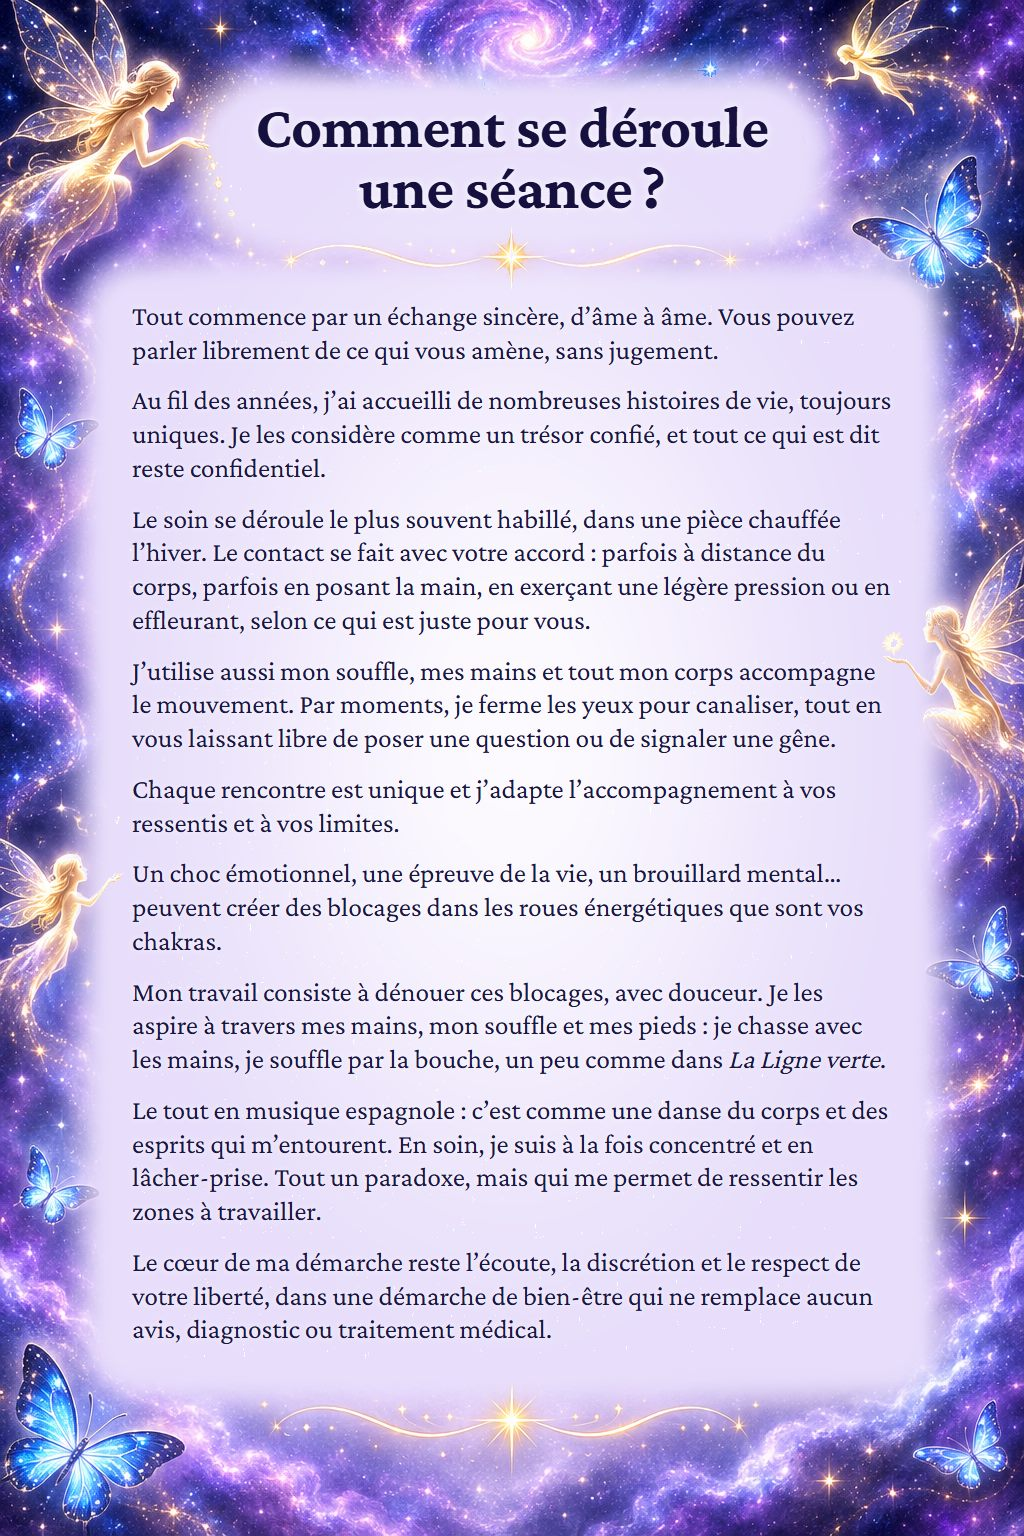
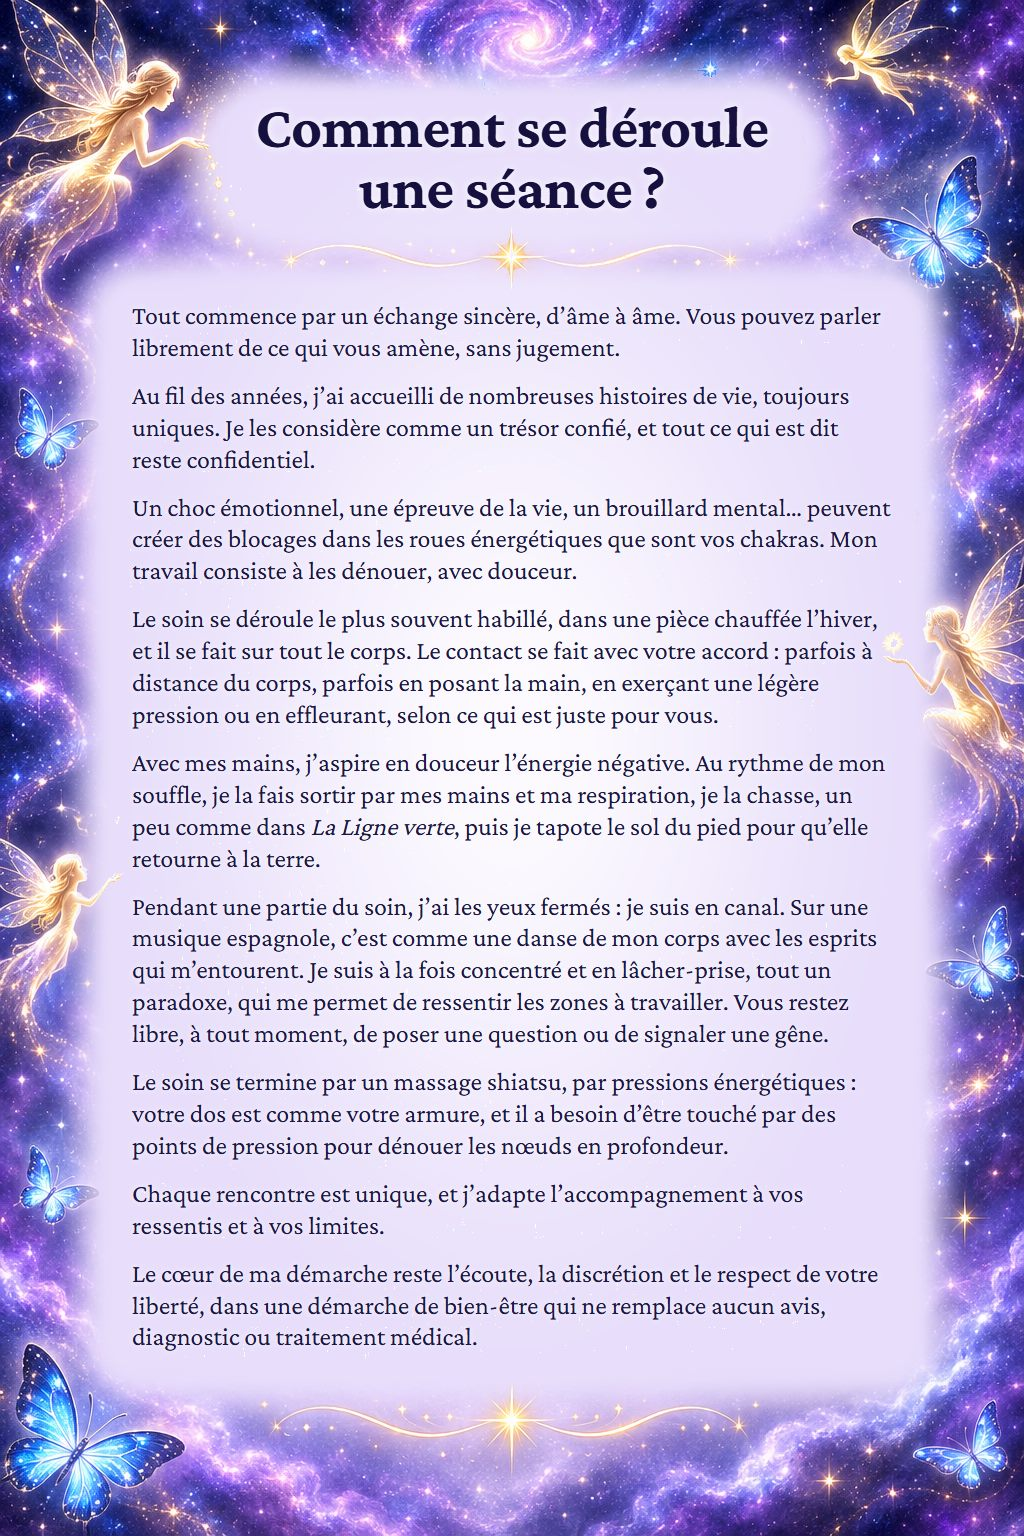
« Comment se déroule une séance ? » : protocole réécrit (tout le corps, mains et souffle, canal, massage shiatsu), versions ordinateur et téléphone

Changed region(s): [[0.125, 0.1875, 0.875, 0.875]]

diff --git a/index.html b/index.html
@@ -611,12 +611,12 @@
     </section>
     <!-- Image « Comment se déroule une séance ? » (cliquer dessus l'ouvre en grand) -->
     <figure class="seance-image apparition" data-anim="zoom" id="deroulement-seance">
-      <a href="images/deroulement-seance.jpg?v=2" target="_blank" rel="noopener">
+      <a href="images/deroulement-seance.jpg?v=3" target="_blank" rel="noopener">
         <picture>
           <!-- Téléphone : version allongée, avec le texte écrit plus gros -->
-          <source media="(max-width: 600px)" type="image/webp" srcset="images/deroulement-seance-mobile.webp?v=1" width="1024" height="2976">
-        <img src="images/deroulement-seance.jpg?v=2" width="1024" height="1536" loading="lazy"
-             alt="Comment se déroule une séance ? Tout commence par un échange sincère, d'âme à âme. Vous pouvez parler librement de ce qui vous amène, sans jugement. Au fil des années, j'ai accueilli de nombreuses histoires de vie, toujours uniques. Je les considère comme un trésor confié, et tout ce qui est dit reste confidentiel. Le soin se déroule le plus souvent habillé, dans une pièce chauffée l'hiver. Le contact se fait avec votre accord : parfois à distance du corps, parfois en posant la main, en exerçant une légère pression ou en effleurant, selon ce qui est juste pour vous. J'utilise aussi mon souffle, mes mains et tout mon corps accompagne le mouvement. Par moments, je ferme les yeux pour canaliser, tout en vous laissant libre de poser une question ou de signaler une gêne. Chaque rencontre est unique et j'adapte l'accompagnement à vos ressentis et à vos limites. Un choc émotionnel, une épreuve de la vie, un brouillard mental… peuvent créer des blocages dans les roues énergétiques que sont vos chakras. Mon travail consiste à dénouer ces blocages, avec douceur. Je les aspire à travers mes mains, mon souffle et mes pieds : je chasse avec les mains, je souffle par la bouche, un peu comme dans La Ligne verte. Le tout en musique espagnole : c'est comme une danse du corps et des esprits qui m'entourent. En soin, je suis à la fois concentré et en lâcher-prise. Tout un paradoxe, mais qui me permet de ressentir les zones à travailler. Le cœur de ma démarche reste l'écoute, la discrétion et le respect de votre liberté, dans une démarche de bien-être qui ne remplace aucun avis, diagnostic ou traitement médical.">
+          <source media="(max-width: 600px)" type="image/webp" srcset="images/deroulement-seance-mobile.webp?v=2" width="1024" height="3216">
+        <img src="images/deroulement-seance.jpg?v=3" width="1024" height="1536" loading="lazy"
+             alt="Comment se déroule une séance ? Tout commence par un échange sincère, d'âme à âme. Vous pouvez parler librement de ce qui vous amène, sans jugement. Au fil des années, j'ai accueilli de nombreuses histoires de vie, toujours uniques. Je les considère comme un trésor confié, et tout ce qui est dit reste confidentiel. Un choc émotionnel, une épreuve de la vie, un brouillard mental… peuvent créer des blocages dans les roues énergétiques que sont vos chakras. Mon travail consiste à les dénouer, avec douceur. Le soin se déroule le plus souvent habillé, dans une pièce chauffée l'hiver, et il se fait sur tout le corps. Le contact se fait avec votre accord : parfois à distance du corps, parfois en posant la main, en exerçant une légère pression ou en effleurant, selon ce qui est juste pour vous. Avec mes mains, j'aspire en douceur l'énergie négative. Au rythme de mon souffle, je la fais sortir par mes mains et ma respiration, je la chasse, un peu comme dans La Ligne verte, puis je tapote le sol du pied pour qu'elle retourne à la terre. Pendant une partie du soin, j'ai les yeux fermés : je suis en canal. Sur une musique espagnole, c'est comme une danse de mon corps avec les esprits qui m'entourent. Je suis à la fois concentré et en lâcher-prise, tout un paradoxe, qui me permet de ressentir les zones à travailler. Vous restez libre, à tout moment, de poser une question ou de signaler une gêne. Le soin se termine par un massage shiatsu, par pressions énergétiques : votre dos est comme votre armure, et il a besoin d'être touché par des points de pression pour dénouer les nœuds en profondeur. Chaque rencontre est unique, et j'adapte l'accompagnement à vos ressentis et à vos limites. Le cœur de ma démarche reste l'écoute, la discrétion et le respect de votre liberté, dans une démarche de bien-être qui ne remplace aucun avis, diagnostic ou traitement médical.">
         </picture>
       </a>
       <figcaption class="seance-image__aide">Cliquez sur l'image pour l'agrandir</figcaption>
